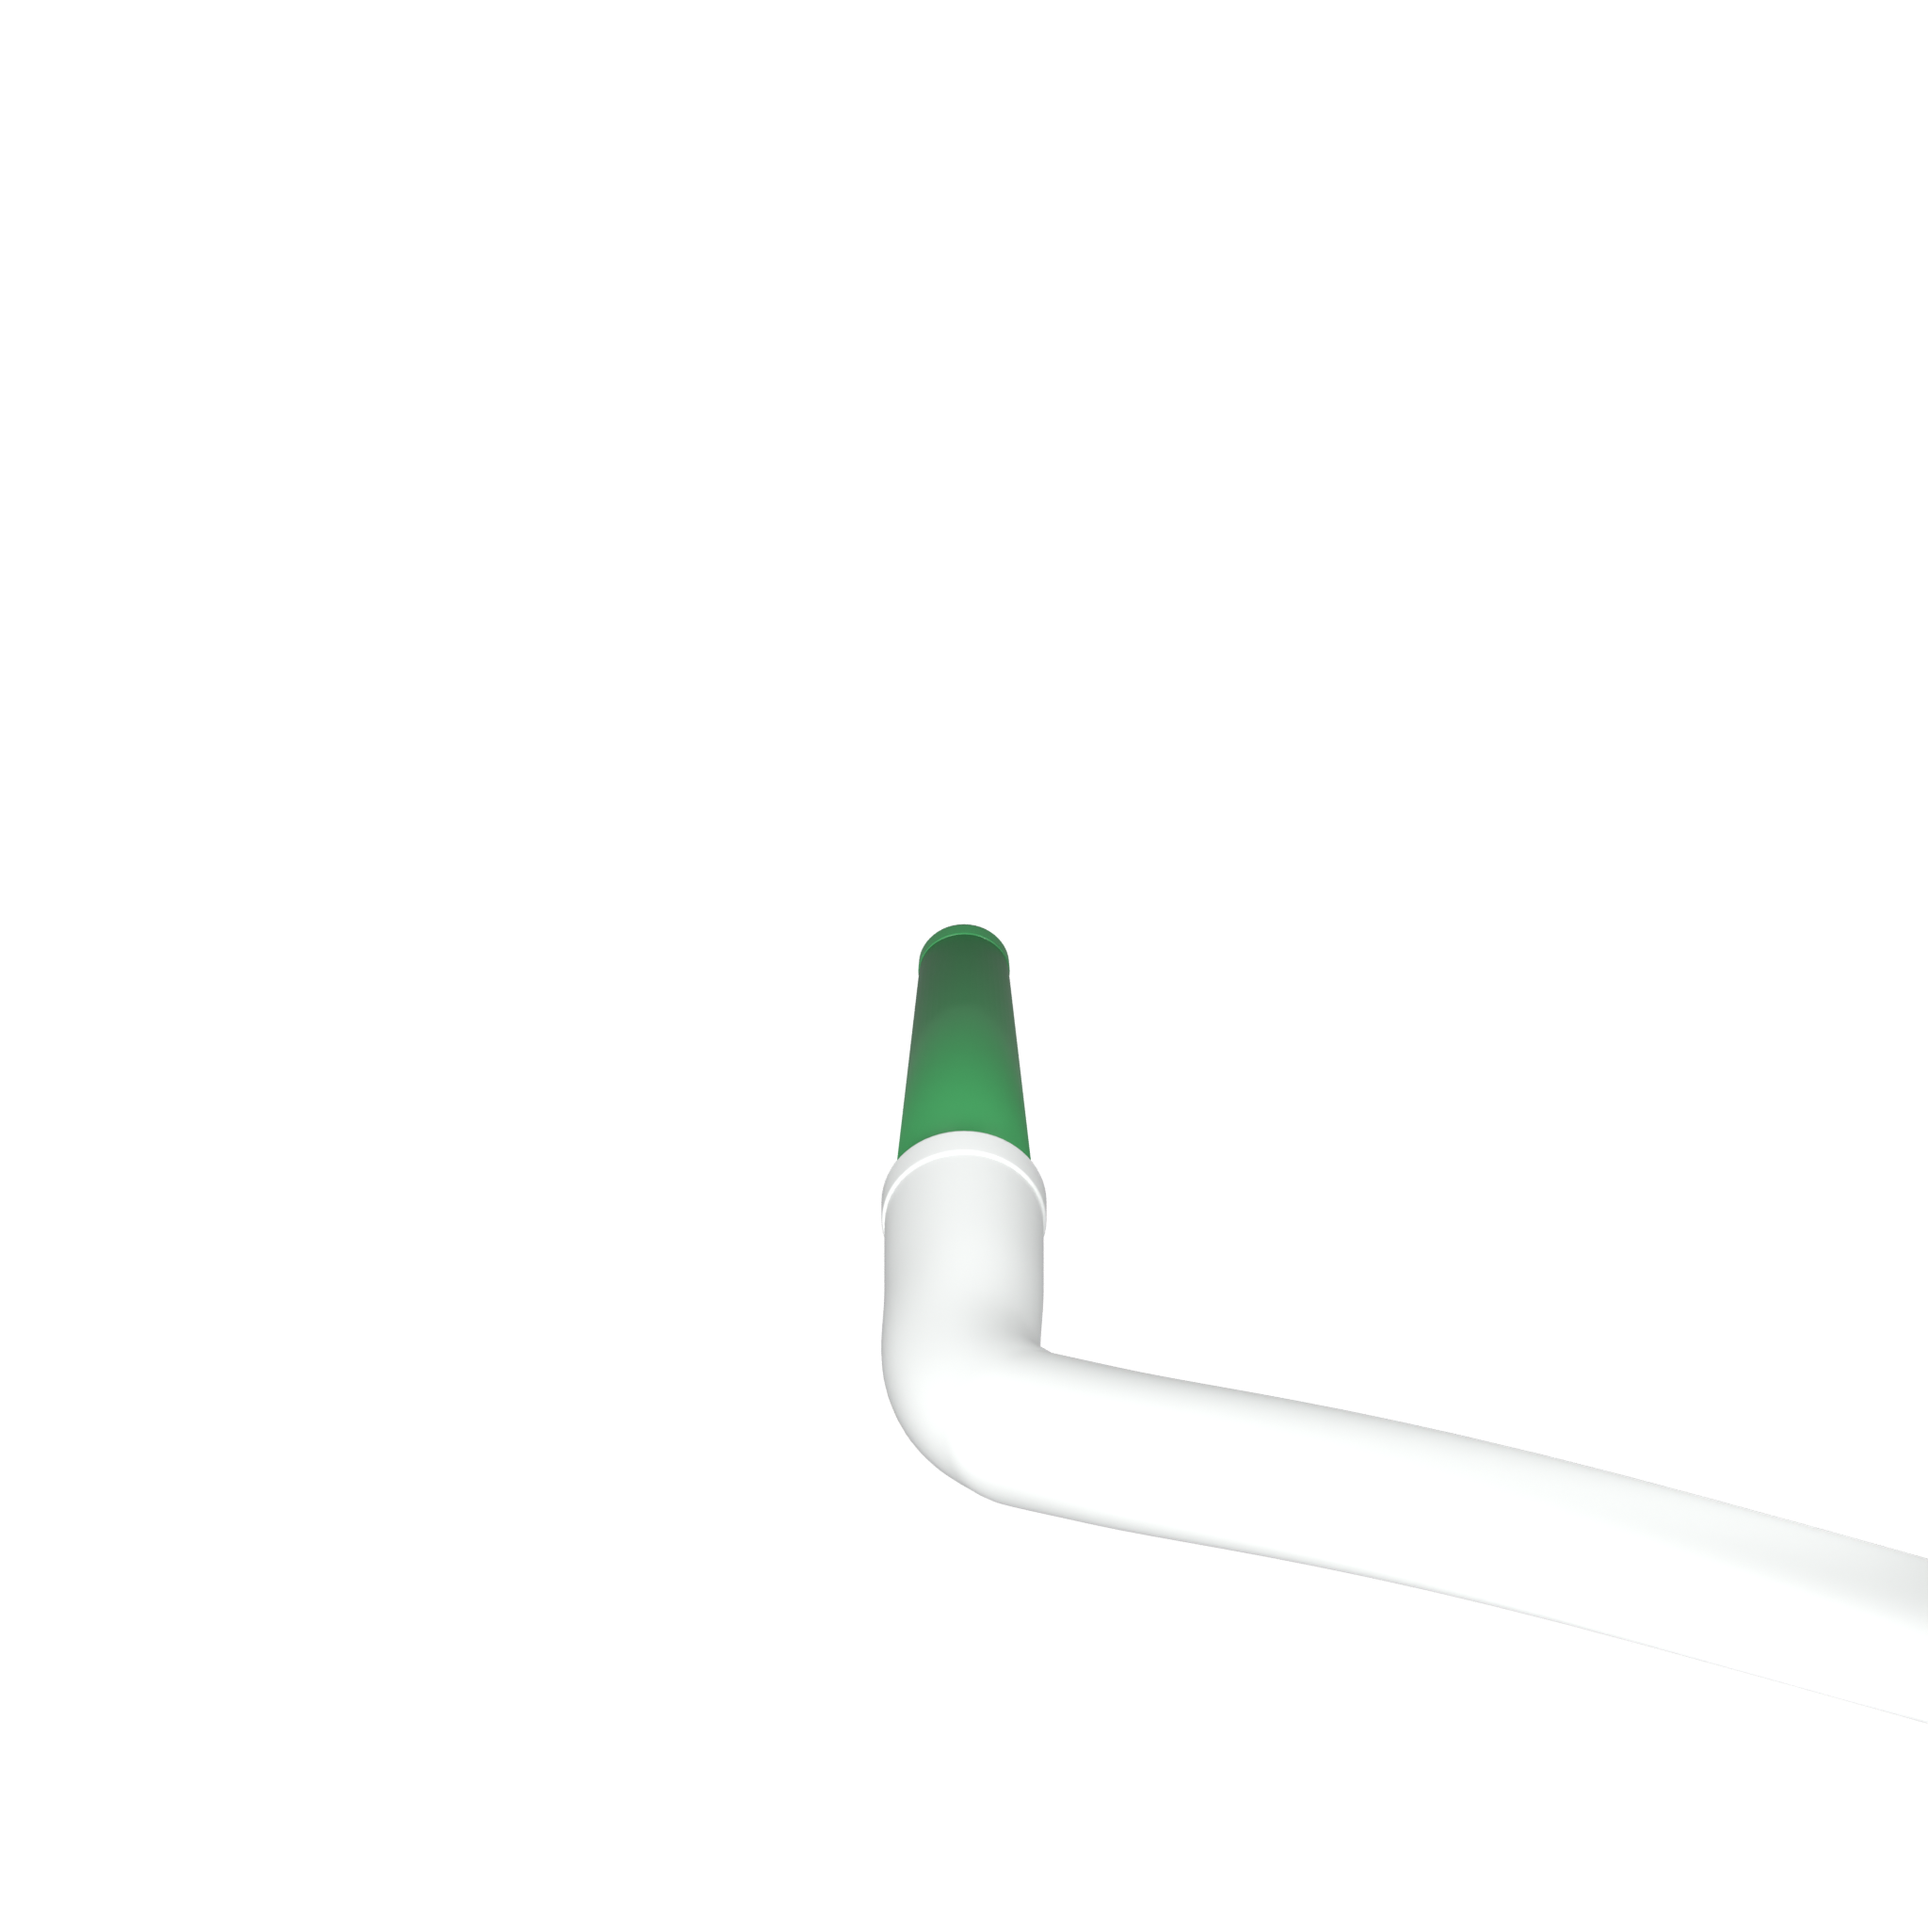
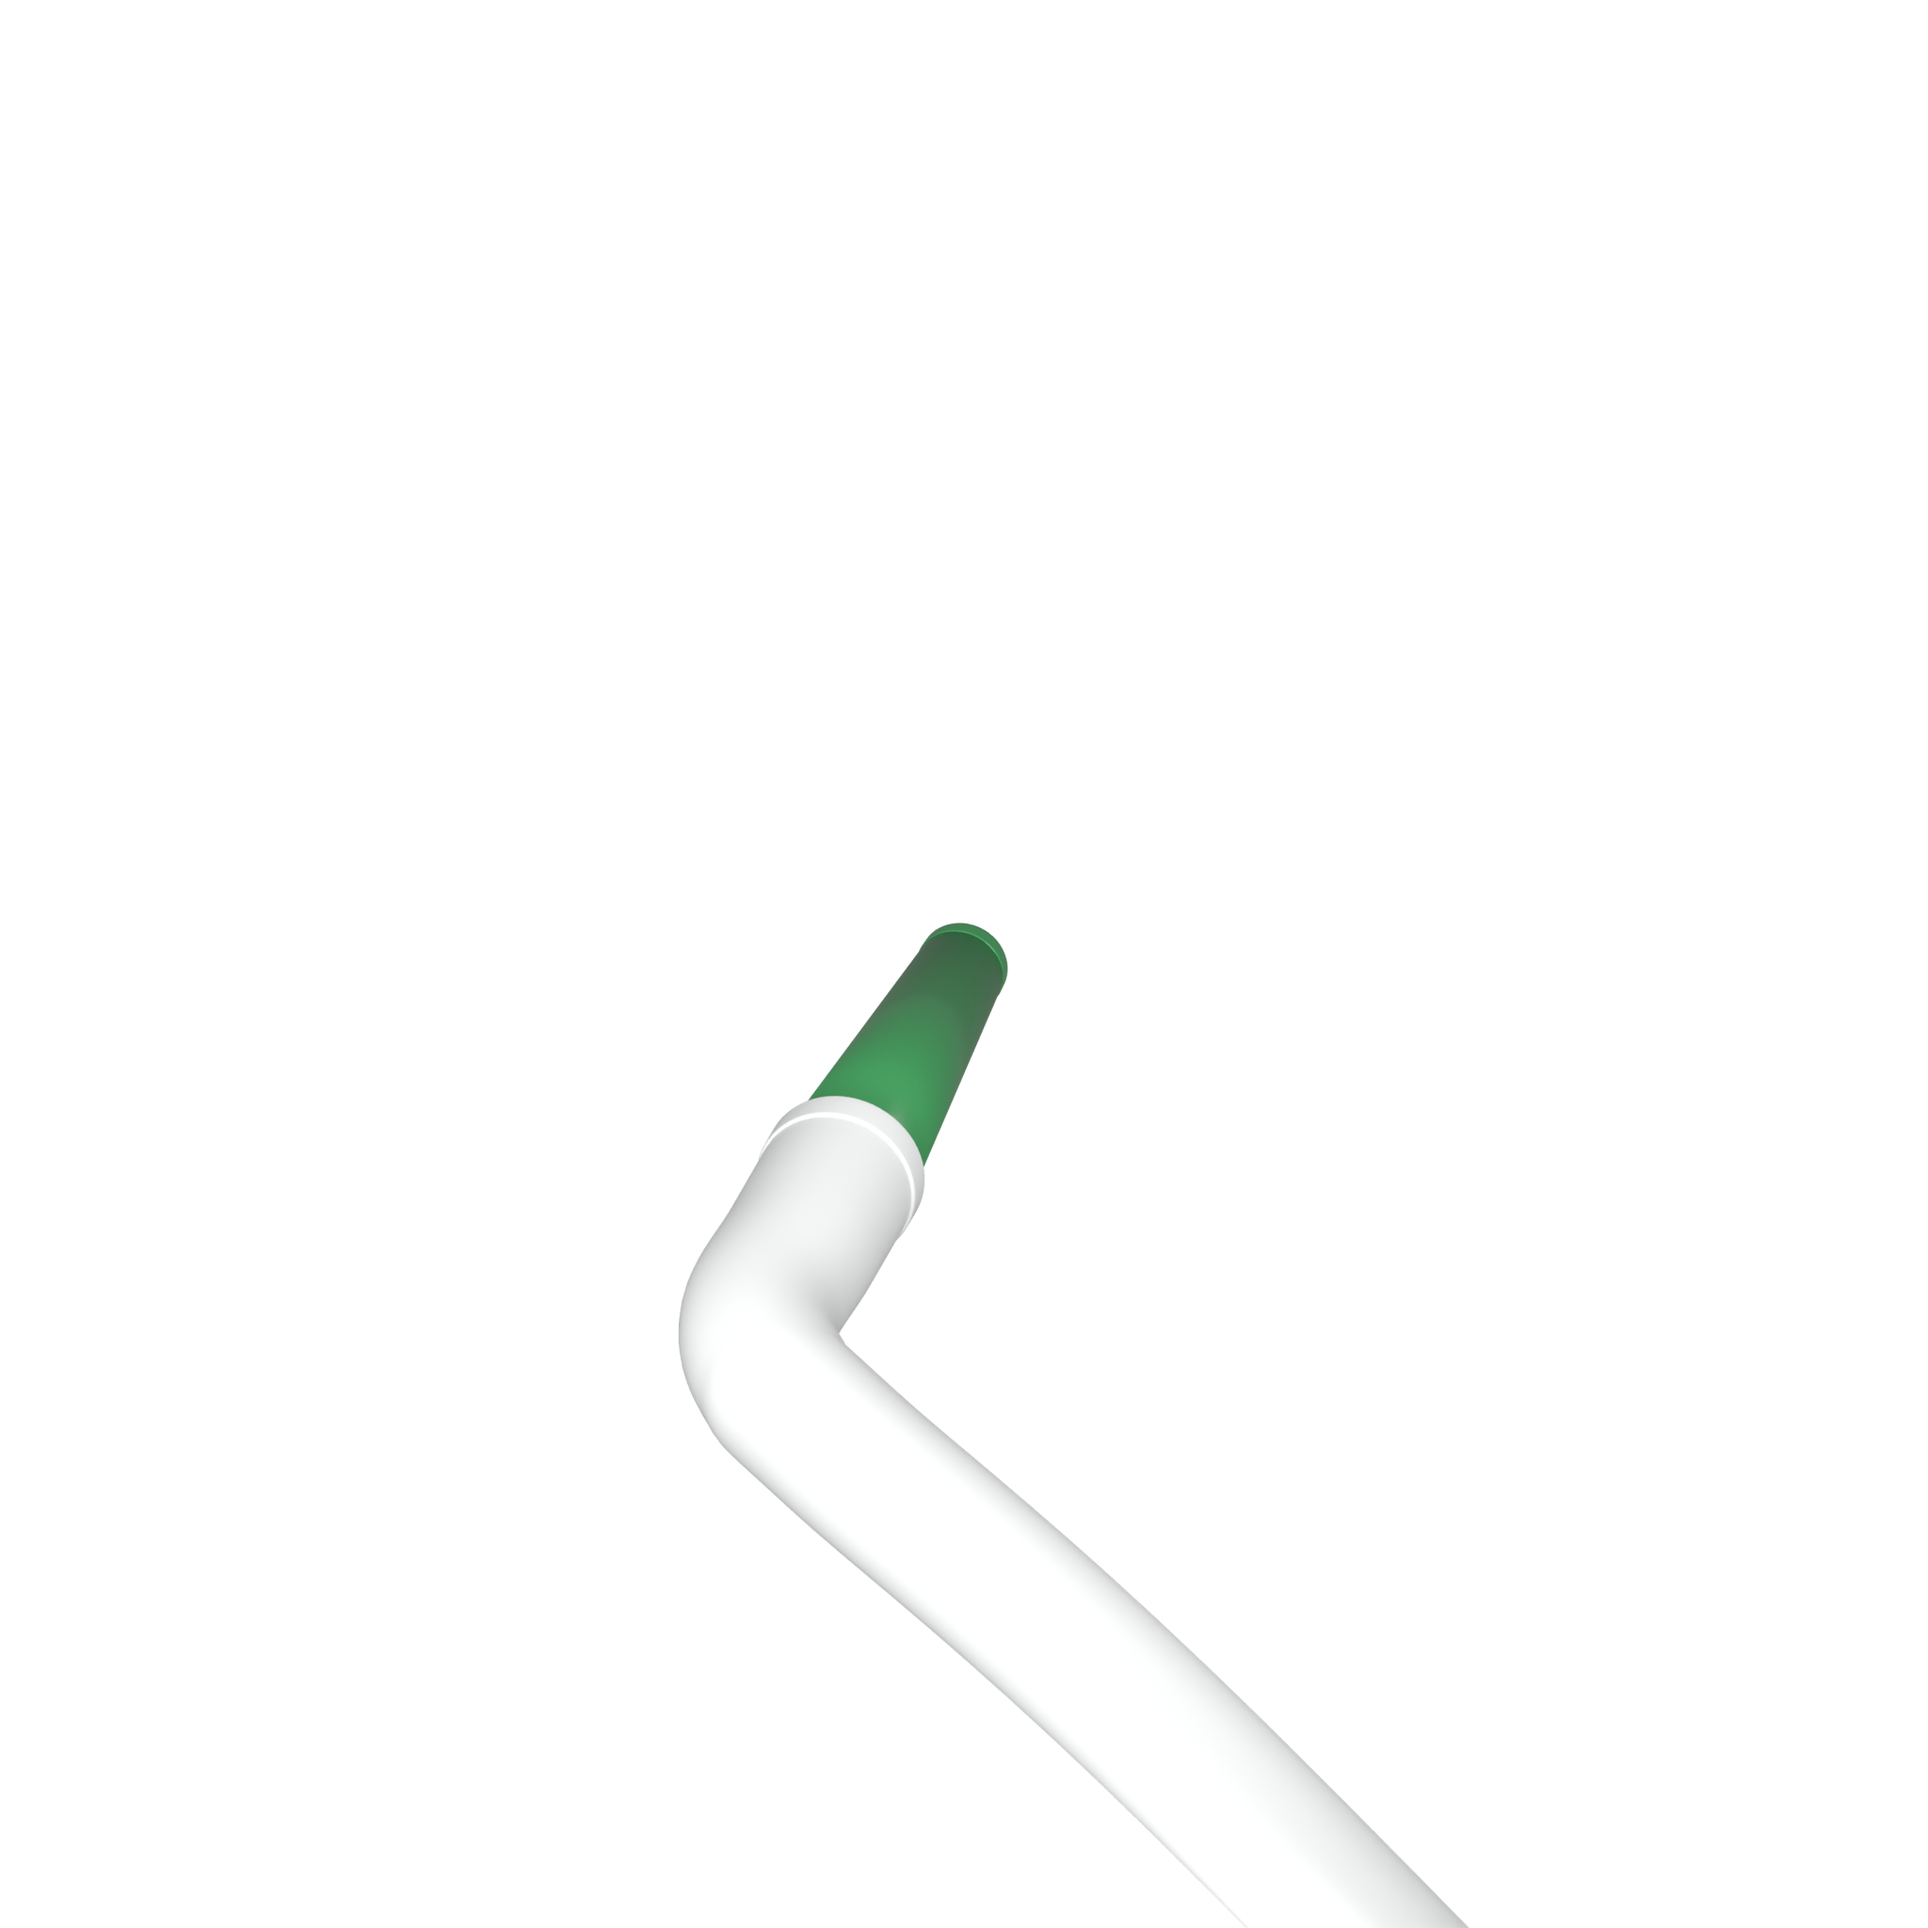
Whitening v9: final suction renders, review record and README
Claude-Session: https://claude.ai/code/session_01SizqJHPNjFpGf8z7tga3JK

diff --git a/clinical-3d/whitening/README.md b/clinical-3d/whitening/README.md
@@ -18,11 +18,12 @@ A review of v8 against the reference photographs (see `REVIEW.json` → `v8_find
 | SDI barrier syringe | Thin push rod, small label text | Rod ~60 % of barrel width, ribbed black luer hub, bold mint label, black SDI block, flat flange |
 | Pola Office+ | Ghosted semi-transparent nozzle, cylinder hub, delivery end ~18 mm | Clear plastic with opaque edges, ribbed conical blue hub, ~11 mm end bent ~55°, stacked POLA lettering, cobalt chamber |
 | NSK FX57 | Flat cylinder head, straight neck on the wrong side of the body, stepped junction | Domed head, contra-angle neck, body flaring 12→16 mm; shown side-on so the brush and its contact are visible |
-| Radii-Cal CX | Body about half real diameter, far end rendered dark grey | Slim angled head widening to a ~22 mm body, bezel, button, collar; even lighting |
-| Surgitip | Double dog-leg, thin over-long green insert, shown as a flat pipe | Single ~40° elbow, 22 mm tapered insert with 2.8 mm lumen, held obliquely with the opening on enamel |
+| Radii-Cal CX | Body about half real diameter, far end rendered dark grey | Slim angled head widening to a ~17 mm body (owner asked for slightly slimmer than the ~22 mm product), bezel, button, collar; even lighting |
+| Surgitip | Double dog-leg, thin over-long green insert, shown as a flat pipe | Single tight ~45° elbow, 20 mm tapered insert with 2.8 mm lumen, held steeply so insert, sleeve and elbow stay in frame |
 | Barrier material | Constant-width flat ribbon mirroring every scallop | Lumpy glossy resin band 2–6 mm tall that fills the papillae and seals ~0.2 mm onto enamel |
 | Gel material | Grey-blue tint that dulled the teeth, hard straight lower edge | Clear wet coating: faint cool film plus surface reflections, enamel colour left visible |
 | Curing | Fast there-and-back sweep, glow hidden under the head | One slow pass, blue wash visible on the barrier around the head |
+| Surface detail | Flat single-colour materials | In-house detailing library (`scripts/blender_detail.py`): moulded plastic, brushed and polished metal, studio reflections |
 | Image quality | 850 px renders enlarged 3×, 24 samples, no denoising | 2048 px renders (1.25× enlargement), denoised |
 
 ## Rebuild
